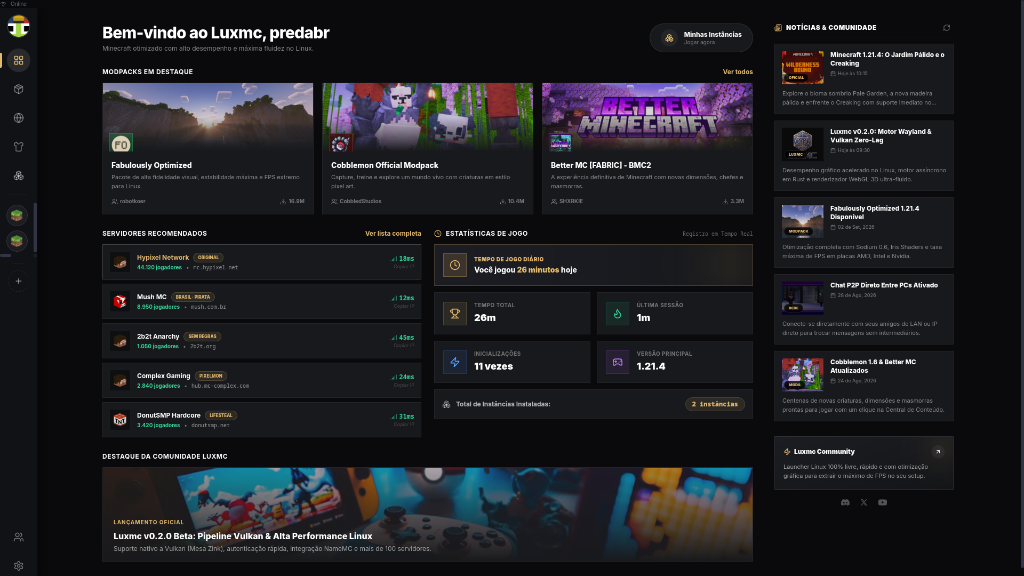
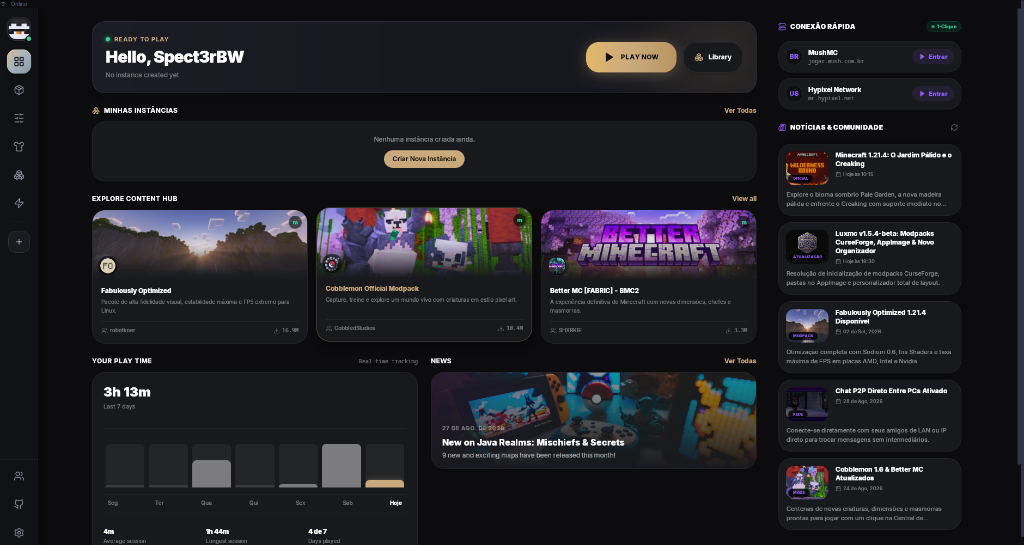
docs: update README with v1.6.0 screenshots and modernized layout

diff --git a/README.md b/README.md
@@ -1,14 +1,14 @@
 <div align="center">
-  <img src="static/logo.png" alt="Luxmc Logo" width="180" />
-  <h1>Luxmc Launcher <span style="color:#e2b86b">v1.5.5-BETA</span></h1>
+  <img src="static/logo.png" alt="Luxmc Logo" width="160" />
+  <h1>Luxmc Launcher <span style="color:#e2b86b">v1.6.0</span></h1>
   <p><strong>O Minecraft Launcher moderno, inteligente e de alta performance.</strong></p>
-  <p><em>Rápido. Inteligente. Estável. 100% gratuito e open-source.</em></p>
+  <p><em>Rápido. Leve. Confiável. 100% gratuito e open-source.</em></p>
 
   <p>
-    <a href="https://github.com/predabr/luxmc/releases"><img src="https://img.shields.io/badge/version-v1.5.5--BETA-gold?style=for-the-badge&logo=rocket" alt="Version" /></a>
-    <img src="https://img.shields.io/badge/platform-Linux%20%7C%20Windows%20%7C%20Arch-blue?style=for-the-badge&logo=linux" alt="Multiplatform" />
+    <a href="https://github.com/predabr/luxmc/releases"><img src="https://img.shields.io/badge/version-v1.6.0-gold?style=for-the-badge&logo=rocket" alt="Version" /></a>
+    <img src="https://img.shields.io/badge/platform-Linux%20%7C%20Windows-blue?style=for-the-badge&logo=linux" alt="Multiplatform" />
     <img src="https://img.shields.io/badge/Windows-Nativo%20EXE-0078D4?style=for-the-badge&logo=windows" alt="Windows EXE" />
-    <img src="https://img.shields.io/badge/Arch%20Linux-AUR%20PKGBUILD-1793D1?style=for-the-badge&logo=archlinux" alt="Arch Linux" />
+    <img src="https://img.shields.io/badge/Linux-AppImage%20%7C%20Deb%20%7C%20RPM%20%7C%20Arch-1793D1?style=for-the-badge&logo=archlinux" alt="Linux Packaging" />
     <img src="https://img.shields.io/badge/backend-Rust%20%2F%20Tauri%202-orange?style=for-the-badge&logo=rust" alt="Rust Tauri 2" />
     <img src="https://img.shields.io/badge/frontend-Svelte%205-red?style=for-the-badge&logo=svelte" alt="Svelte 5" />
     <a href="LICENSE"><img src="https://img.shields.io/badge/license-Luxmc%20License-purple?style=for-the-badge" alt="License" /></a>
@@ -17,19 +17,37 @@
 
 <br/>
 
+<!-- Dashboard Principal -->
 <div align="center">
-  <img src="static/home.png" alt="Dashboard — Tela Principal do Luxmc" style="border-radius: 14px; margin-bottom: 20px; box-shadow: 0 20px 50px rgba(0,0,0,0.5);" width="850" />
-  <p><em>Dashboard com modpacks em destaque, servidores recomendados, estatísticas de jogo e notícias da comunidade.</em></p>
+  <img src="static/home.png" alt="Dashboard — Tela Principal do Luxmc" style="border-radius: 14px; margin-bottom: 12px; box-shadow: 0 20px 50px rgba(0,0,0,0.5); width: 100%; max-width: 900px;" />
+  <p><em>Dashboard com modpacks em destaque, conexão rápida para servidores, rastreamento de tempo de jogo e notícias.</em></p>
 </div>
 
 <br/>
 
-<div align="center" style="display: flex; justify-content: center; gap: 20px;">
-  <img src="static/skins.png" alt="Personalização 3D de Skins & Capas" style="border-radius: 12px; width: 48%; box-shadow: 0 10px 30px rgba(0,0,0,0.4);" />
-  <img src="static/home.png" alt="Organizador de Layout e Instâncias" style="border-radius: 12px; width: 48%; box-shadow: 0 10px 30px rgba(0,0,0,0.4);" />
-</div>
+<!-- Galeria de Telas -->
 <div align="center">
-  <p><em>Esquerda: Personalização 3D volumétrica com catálogo HD, NameMC e injeção nativa no jogo. Direita: Dashboard fluido com transições e organizador modular.</em></p>
+  <table style="border: none; border-collapse: collapse; width: 100%; max-width: 900px;">
+    <tr>
+      <td width="50%" align="center" style="padding: 8px; border: none;">
+        <img src="static/mods.png" alt="Central de Conteúdo — Mods e Modpacks" style="border-radius: 12px; width: 100%; box-shadow: 0 10px 30px rgba(0,0,0,0.4);" />
+        <br/>
+        <sub><strong>Central de Conteúdo:</strong> Busca unificada no Modrinth e CurseForge para modpacks, mods, shaders e resource packs.</sub>
+      </td>
+      <td width="50%" align="center" style="padding: 8px; border: none;">
+        <img src="static/skins.png" alt="Personalização 3D de Skins e Capas" style="border-radius: 12px; width: 100%; box-shadow: 0 10px 30px rgba(0,0,0,0.4);" />
+        <br/>
+        <sub><strong>Personalização 3D:</strong> Guarda-roupa volumétrico real, integração com NameMC e injeção automática no jogo.</sub>
+      </td>
+    </tr>
+    <tr>
+      <td colspan="2" align="center" style="padding: 8px; border: none;">
+        <img src="static/instances.png" alt="Criação de Instâncias 1-Clique" style="border-radius: 12px; width: 100%; max-width: 880px; box-shadow: 0 10px 30px rgba(0,0,0,0.4);" />
+        <br/>
+        <sub><strong>Criação de Instâncias:</strong> Modelos prontos de 1-Clique (Vanilla Otimizado, PvP, Survival, Modded) com seletor de loader e versão.</sub>
+      </td>
+    </tr>
+  </table>
 </div>
 
 <br/>
@@ -38,206 +56,146 @@
 
 ## 🎮 O que é o Luxmc?
 
-O **Luxmc** é um launcher de Minecraft moderno construído **do zero em Rust (Tauri 2)** com frontend em **Svelte 5 + TypeScript + Tailwind CSS**. Projetado com foco primário em estabilidade no Linux e suporte nativo ao Windows, ele oferece consumo reduzido de RAM, inicialização ultra-rápida, launcher inteligente com auto-dimensionamento de memória e uma experiência visual premium.
+O **Luxmc** é um launcher de Minecraft moderno construído **em Rust (Tauri 2)** com interface reativa em **Svelte 5 + TypeScript + Tailwind CSS**. Projetado com foco em alta performance, estabilidade no Linux e suporte nativo ao Windows, ele oferece inicialização quase instantânea, consumo mínimo de memória e ferramentas completas para modding e personalização.
 
-### Por que usar o Luxmc?
+### Comparativo
 
-| Recurso | Luxmc | Launcher Oficial | Outros Launchers |
+| Recurso | Luxmc | Launcher Oficial | Launchers Baseados em Electron |
 |---|---|---|---|
-| **Consumo de RAM** | ~180-220 MB | ~800 MB+ | ~400-600 MB |
-| **Inicialização** | < 2s | ~8-15s | ~5-10s |
-| **Central de Mods** | ✅ Modrinth + CurseForge (4-level fallback) | ❌ | ✅ Parcial |
-| **Launcher Inteligente** | ✅ Auto-alocação de RAM & Flags G1GC | ❌ | ❌ |
-| **Personalização 3D** | ✅ Volumétrico real + 13 Capas + Injeção Nativa | ❌ | ✅ 2D apenas |
-| **Organizador de Layout** | ✅ Drag-and-drop customizável | ❌ | ❌ |
-| **Cancelamento de Modpacks** | ✅ Suporte com 1-clique | ❌ | ❌ |
-| **Chat & P2P Multiplayer** | ✅ Socket TCP Direto | ❌ | ❌ |
-| **Nativo Linux & Windows** | ✅ Tauri 2 / Rust | ❌ Electron | ❌ Java/Electron |
-
----
-
-## 🌟 Novidades na v1.5.6-BETA
-
-- 🚀 **Resolução Definitiva de Inicialização no CurseForge:**
-  - Tratamento inteligente da versão base (`clean_req_ver`) no manifesto da Mojang, impedindo que nomes compostos (ex: `1.20.1-forge-47.3.0`) causem o erro "Version not found" que fechava o jogo instantaneamente.
-  - Varredura e extração robusta de `version.json` diretamente do instalador do Forge na memória.
-  - Deduplicação do classpath entre o cliente vanilla e o cliente embutido do NeoForge.
-
-- 👕 **Injeção Perfeita de Skins e Capas em Runtime:**
-  - Correção definitiva do canal alfa nas costas do jogador (tronco, braços, pernas e cabeça), eliminando bugs visuais e texturas invisíveis no jogo.
-  - Ativação automática e forçada de todas as camadas do modelo (`modelPart_jacket`, `modelPart_cape`, `modelPart_hat`, mangas e calças) no `options.txt`.
-  - Injeção da textura de capa para OptiFine e loaders modernos via resourcepack dinâmico em tempo de execução.
-
-- 🛡 **Persistência Completa de Skins e Capas Locais:**
-  - Armazenamento permanente dos arquivos `.png` em disco (`~/.local/share/luxmc/skins/` e `capes/`) e registro das texturas no banco de dados SQLite local.
-  - Opções para equipar, alternar e excluir capas personalizadas diretamente pelo catálogo visual.
-
-- 🕹 **Novo Visualizador 3D do Personalizador (`skinview3d`):**
-  - Renderização 3D idêntica à do Minecraft com iluminação realista, física de caminhada (`WalkingAnimation`), camadas externas completas e exibição de capas com suporte a física.
-  - Pausa inteligente de renderização quando fora da tela para poupar GPU e bateria.
-
-- ⏱ **Painel de Tempo de Jogo em Tempo Real ("YOUR PLAY TIME"):**
-  - Gráfico de barras dinâmico dos últimos 7 dias com tooltips interativos e destaque dourado no dia de hoje.
-  - Métricas precisas de tempo total dos últimos 7 dias, sessão média, sessão mais longa e dias jogados (`X de 7`), com persistência contínua no SQLite.
-
-- 🗂 **Organizador de Layout com Física e Animação Fluida (`svelte-dnd-action`):**
-  - Reordenação de cards e painéis via arrastar e soltar suave a 60 FPS com transição física de 200ms e confetes de comemoração (`canvas-confetti`).
-
-- 🦀 **Integração das Melhores Bibliotecas do Ecossistema:**
-  - Backend Rust potencializado com `rayon` (multi-threading), `moka` (cache concorrente), `fastnbt`, `craftping`, `murmur2`, `notify`, `which`, `sysinfo` e `discord-rich-presence`.
-  - Frontend Svelte 5 com `bits-ui`, `@melt-ui/svelte`, `motion`, `howler`, `tone`, `xterm`, `chart.js` e `node-vibrant`.
+| **Consumo de RAM** | **~150-200 MB** | ~800 MB+ | ~500-800 MB |
+| **Tempo de Inicialização** | **< 1.5s** | ~8-15s | ~6-12s |
+| **Central de Mods** | ✅ Modrinth + CurseForge com downloads paralelos | ❌ | ⚠ Parcial |
+| **Alocação de Memória** | ✅ Inteligente (Aikar G1GC Flags + Auto RAM) | ❌ | ⚠ Manual |
+| **Personalização de Skins** | ✅ 3D Volumétrico + Capas + Injeção Nativa | ❌ | ⚠ 2D apenas |
+| **Modelos 1-Clique** | ✅ Vanilla Otimizado, PvP, Fabric, Forge, NeoForge | ❌ | ❌ |
+| **Chat & P2P Local** | ✅ Chat Universal e P2P direto | ❌ | ❌ |
+| **Tecnologia** | ✅ **Tauri 2 / Rust** | ❌ Electron / CEF | ❌ Electron |
 
 ---
 
 ## 🚀 Principais Recursos
 
-### ⚡ Desempenho & Estabilidade
-- **Construído em Rust (Tauri 2):** Consumo mínimo de memória e CPU.
-- **Pipeline GPU Nativo:** DMA-BUF e aceleração de hardware via WebKitGTK / WebView2.
-- **Limitadores de Memória Integrados:** Coleta controlada de assets em páginas pesadas.
+### ⚡ Performance & Arquitetura
+- **Engine Nativa em Rust:** Zero overhead do Chromium. Consumo de memória até 75% menor que launchers tradicionais.
+- **Aceleração Gráfica por Hardware:** Suporte a DMA-BUF e Wayland/X11 no Linux e WebView2 no Windows.
+- **Downloads Paralelos e Resilientes:** Motor multi-thread via `rayon` e `tokio` com verificação de hash instantânea.
 
-### ☕ Java & Otimização
-- **Smart Java:** Identifica ou baixa a versão exata do Java (8, 17, 21) correspondente à versão do Minecraft.
-- **Aikar's Flags Automáticas:** Aplica parâmetros de JVM para GC suave sem travamentos de frame.
-- **Editor de JVM por Instância:** Permite definir memória mínima/máxima e argumentos personalizados.
+### 🧩 Central de Conteúdo & Modloaders
+- **Suporte Completo a Loaders:** Vanilla, Fabric, Forge, NeoForge e Quilt do Minecraft clássico até a versão mais recente.
+- **Ecossistema Unificado:** Explore e instale milhares de modpacks, mods, resource packs, shaders e datapacks do **Modrinth** e **CurseForge** diretamente pelo launcher.
+- **Resolução Automática de Dependências:** Instale mods complexos sem se preocupar com bibliotecas ausentes.
 
-### 🧩 Mods & Loaders
-- **Suporte a Mod Loaders:** Vanilla, Fabric, Forge, NeoForge e Quilt.
-- **Central de Mods Integrada:** Busca unificada no Modrinth e CurseForge com filtros por versão e loader.
-- **Fallback de Banners:** Exibição elegante com visualização de ícones e banners de modpacks.
+### 👕 Personalização de Skins & Capas 3D
+- **Visualizador 3D Real:** Rotação 360°, suporte a modelos Classic (4px) e Slim (3px) com animação física suave.
+- **Importador NameMC:** Carregue qualquer skin do mundo simplesmente digitando o nickname do jogador.
+- **Capas 3D e Injeção no Jogo:** Escolha entre capas históricas ou importe sua própria textura com injeção automática em tempo de execução.
 
-### 👕 Personalização
-- **Modelo 3D Volumétrico Real:** Rotação 360° interativa, troca entre modelos Classic (4px) e Slim (3px).
-- **NameMC:** Busca de skins por nickname.
-- **Capas 3D:** 13 capas históricas incluídas e suporte a capas customizadas.
+### ☕ Gerenciamento Inteligente de Java & Memória
+- **Detecção e Download Automático:** O launcher identifica e providencia o Java adequado (Java 8, 17 ou 21) para a versão escolhida.
+- **Aikar's Flags Otimizadas:** Configuração automática de garbage collection para eliminar engasgos (stuttering).
+- **Editor de JVM Avançado:** Ajuste fino de parâmetros e limites de memória por instância.
 
-### 🌐 Multiplayer
-- **Chat P2P Integrado:** Comunicação direta por IP entre jogadores do Luxmc.
+### 🌐 Conexão Rápida & Ferramentas Integradas
+- **Conexão Direta (Quick Join):** Entre nos seus servidores favoritos em 1-clique diretamente pelo launcher.
+- **Chat P2P & Global:** Converse com amigos e compartilhe IPs de servidores sem intermediários.
+- **Doctor de Erros & Telemetria:** Diagnóstico inteligente de conflitos de mods e relatórios claros de inicialização.
 
 ---
 
 ## 📥 Como Baixar e Instalar
 
-Baixe o pacote para seu sistema na aba de **[📦 Releases Oficiais (v1.5.6-BETA)](https://github.com/predabr/luxmc/releases/latest)**.
+Baixe o pacote correspondente ao seu sistema operacional na aba de **[📦 Releases Oficiais](https://github.com/predabr/luxmc/releases/latest)**.
 
-### 🪟 Microsoft Windows (`Luxmc.exe`)
-Executável nativo de 64-bit para Windows 10 e Windows 11 com WebView2:
-1. Baixe **`Luxmc.exe`** ou o instalador `.msi`.
-2. Dê duplo clique para iniciar diretamente.
+### 🪟 Windows (10 / 11)
+- Baixe o instalador **`Luxmc_x64-setup.exe`** ou **`Luxmc.exe`**.
+- Execute o arquivo para iniciar o launcher.
 
-### 🟢 Universal Linux (AppImage)
-Compatível com todas as distribuições Linux:
+### 🟢 Linux (AppImage — Universal)
+Funciona em qualquer distribuição Linux:
 ```bash
-# 1. Dê permissão de execução
-chmod +x Luxmc_1.5.6-beta_amd64.AppImage
-
-# 2. Execute
-./Luxmc_1.5.6-beta_amd64.AppImage
+chmod +x Luxmc_1.6.0_amd64.AppImage
+./Luxmc_1.6.0_amd64.AppImage
 ```
 
 ### 🟣 Arch Linux / Manjaro
-O repositório inclui suporte completo para o Arch Linux:
-
+Instale via PKGBUILD nativo incluído no repositório:
 ```bash
-# Compilação e instalação nativa via PKGBUILD:
 cd packaging/arch
-makepkg -si
-```
-
-Ou através do pacote de binário pré-compilado:
-```bash
-cd packaging/aur
 makepkg -si
 ```
 
 ### 🔴 Debian / Ubuntu / Pop!_OS (.deb)
 ```bash
-sudo apt install ./Luxmc_1.5.6-beta_amd64.deb
+sudo apt install ./Luxmc_1.6.0_amd64.deb
 ```
 
 ### 🔵 Fedora / openSUSE (.rpm)
 ```bash
-sudo dnf install ./Luxmc-1.5.6-beta-1.x86_64.rpm
+sudo dnf install ./Luxmc-1.6.0-1.x86_64.rpm
 ```
 
 ---
 
-## 🛠 Compilando do Código-Fonte
+## 🛠 Compilando a partir do Código-Fonte
 
-### Requisitos
+### Pré-requisitos
 
-| Requisito | Versão Mínima |
-|-----------|--------------|
+| Ferramenta | Versão Recomendada |
+|---|---|
 | **Node.js** | v20+ |
 | **pnpm** | v9+ |
-| **Rust** (stable) | 1.77+ |
-| **WebKitGTK** (Linux) | 4.1+ |
-| **GTK** (Linux) | 3.0+ |
+| **Rust** | 1.77+ (stable) |
+| **WebKitGTK / GTK3** (Linux) | 4.1+ |
 
-### Compilação
+### Passo a Passo
 
 ```bash
 # 1. Clone o repositório
 git clone https://github.com/predabr/luxmc.git
 cd luxmc
 
-# 2. Instale as dependências
+# 2. Instale as dependências do frontend
 pnpm install
 
-# 3. Inicie em desenvolvimento
+# 3. Execute em modo desenvolvimento (Live Reload)
 pnpm tauri dev
 
-# 4. Gere os pacotes de produção
+# 4. Compile os binários de produção otimizados
 pnpm tauri build
 ```
 
 ---
 
-## 🏗 Estrutura do Projeto
+## 🏗 Estrutura do Repositório
 
 ```
 luxmc/
-├── src/                          # Frontend (SvelteKit + Svelte 5 + TypeScript)
+├── src/                          # Frontend SvelteKit (Svelte 5 + TS + Tailwind)
 │   ├── lib/
-│   │   ├── api/                  # Wrappers tipados para Tauri commands
-│   │   ├── components/           # Componentes UI (Skins, Servidores, Mods, Cutscene)
-│   │   ├── stores/               # Estado reativo (Svelte 5 runes)
-│   │   └── utils/                # Texturas e utilitários
-│   └── routes/                   # Páginas SvelteKit (Dashboard, Mods, Skins, Servidores, Amigos)
+│   │   ├── api/                  # Interfaces tipadas com Tauri commands
+│   │   ├── components/           # Componentes modulares (UI, 3D, Instâncias, Mods)
+│   │   └── stores/               # Estado reativo baseado em runes
+│   └── routes/                   # Páginas da aplicação (Dashboard, Mods, Skins, etc.)
 ├── src-tauri/                    # Backend Rust (Tauri 2)
 │   ├── src/
-│   │   ├── core/                 # Lógica de negócio (Java, Downloader, Minecraft, P2P)
-│   │   ├── commands/             # Handlers #[tauri::command]
-│   │   └── lib.rs                # Registro de plugins e comandos
+│   │   ├── core/                 # Motores de download, launchers, Java e verificações
+│   │   ├── commands/             # Handlers expostos para a interface
+│   │   └── lib.rs                # Inicialização e registro de módulos
+│   ├── tests/                    # Suíte completa de testes de integração
 │   └── Cargo.toml
-├── packaging/
-│   ├── arch/                     # PKGBUILD nativo de compilação para Arch Linux
-│   └── aur/                      # PKGBUILD binário para AUR
-└── static/                       # Assets estáticos
+├── packaging/                    # Scripts de empacotamento (Arch, Debian, RPM)
+└── static/                       # Assets visuais e screenshots
 ```
-
----
-
-## 🤝 Contribuindo
-
-1. **Fork** o repositório
-2. Crie sua branch de funcionalidade: `git checkout -b feat/minha-feature`
-3. Execute as verificações do projeto antes de submeter:
-   ```bash
-   pnpm check       # Verificação de tipos Svelte/TS
-   cargo check      # Verificação de compilação Rust (dentro de src-tauri/)
-   ```
-4. Abra um Pull Request.
 
 ---
 
 ## 📄 Licença
 
-Distribuído sob a **Licença Própria do Luxmc Launcher** (Copyright © 2026 Pedro & Time Luxmc).
-Gratuito para uso pessoal e não comercial. Consulte [LICENSE](LICENSE) para detalhes.
+Distribuído sob a **Licença Luxmc Launcher** (Copyright © 2026 Pedro & Equipe Luxmc).  
+Gratuito para uso pessoal e comunitário. Consulte [LICENSE](LICENSE) para detalhes completos.
 
 <div align="center">
   <br/>
-  <p><strong>Feito com dedicação para a comunidade gamer.</strong></p>
+  <p><strong>Desenvolvido com carinho para a comunidade Minecraft.</strong></p>
   <img src="static/logo.png" alt="Luxmc" width="60" />
 </div>
